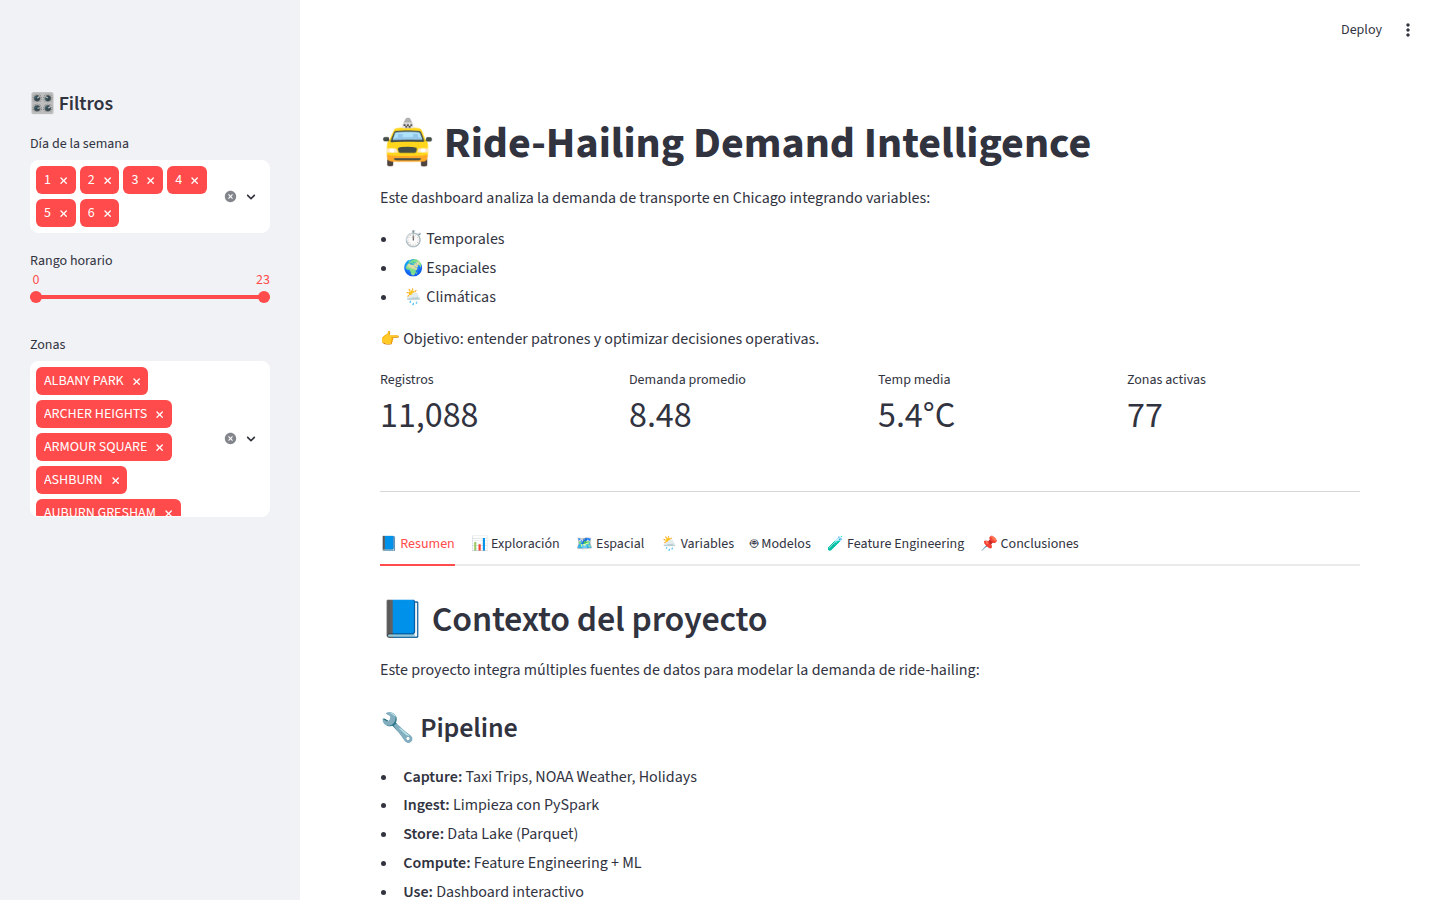
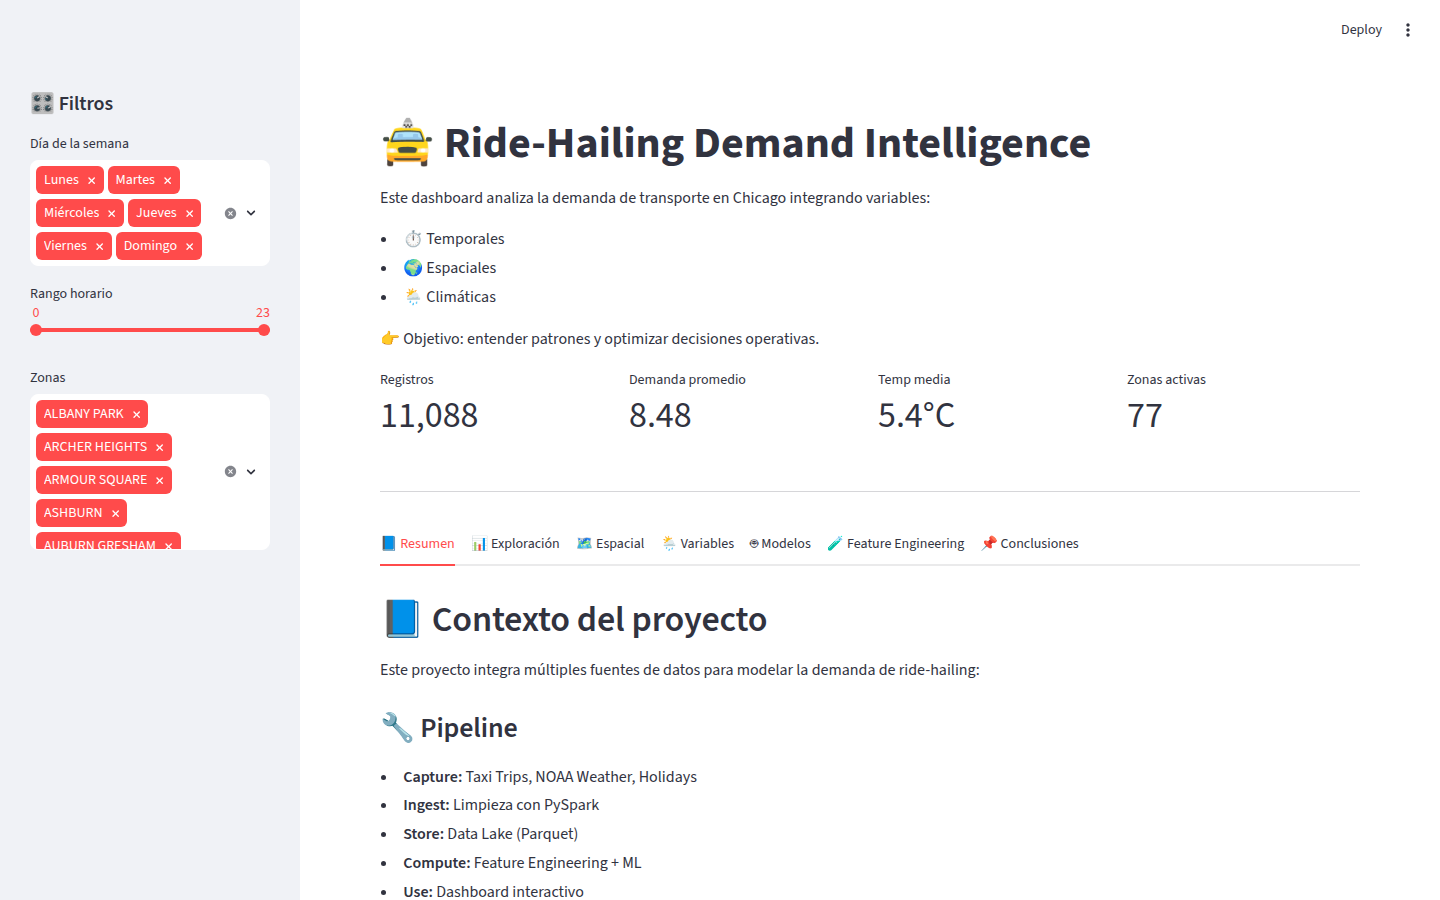
Muestra los días de la semana con nombre (lunes a domingo) y añade demo en vivo
- Las vistas por día del dashboard (filtro lateral, barras por día, heatmap
  y scatter de temperatura) usan nombres de día ordenados de lunes a
  domingo en lugar del código numérico de Spark (1=domingo..7=sábado)
- El eje muestra los 7 días; el sábado, ausente en la muestra pública
  (26-31 de marzo de 2023), aparece sin datos con una nota que lo explica
- El caption del pico de demanda usa el nombre del día (ej. 'Viernes')
- README: enlace a la demo pública en Streamlit Community Cloud, nota de
  cobertura de la muestra y capturas actualizadas

Claude-Session: https://claude.ai/code/session_016BBz5eR14z4jB9gDxQUT8N

Changed region(s): [[0.0, 0.1867, 0.1875, 0.3733], [0.0, 0.4044, 0.125, 0.6222], [0.1562, 0.4667, 0.1875, 0.5289]]

diff --git a/app.py b/app.py
@@ -17,6 +17,20 @@ import streamlit.components.v1 as components
 
 DATA_DIR = Path(__file__).parent / "data"
 
+# day_of_week viene del pipeline Spark con la convención dayofweek():
+# 1=Domingo, 2=Lunes, ..., 7=Sábado. Se muestra siempre con nombres,
+# ordenados de lunes a domingo.
+DAY_NAMES = {
+    1: "Domingo",
+    2: "Lunes",
+    3: "Martes",
+    4: "Miércoles",
+    5: "Jueves",
+    6: "Viernes",
+    7: "Sábado",
+}
+DAY_ORDER = ["Lunes", "Martes", "Miércoles", "Jueves", "Viernes", "Sábado", "Domingo"]
+
 st.set_page_config(
     page_title="Ride-Hailing Demand Intelligence",
     page_icon="🚖",
@@ -29,7 +43,9 @@ st.set_page_config(
 # =========================
 @st.cache_data
 def load_dataset() -> pd.DataFrame:
-    return pd.read_csv(DATA_DIR / "final_dataset.csv")
+    df = pd.read_csv(DATA_DIR / "final_dataset.csv")
+    df["day_name"] = df["day_of_week"].map(DAY_NAMES)
+    return df
 
 
 @st.cache_data
@@ -50,10 +66,11 @@ df = load_dataset()
 # =========================
 st.sidebar.header("🎛️ Filtros")
 
+available_days = [d for d in DAY_ORDER if d in set(df["day_name"])]
 selected_days = st.sidebar.multiselect(
     "Día de la semana",
-    options=sorted(df["day_of_week"].unique()),
-    default=sorted(df["day_of_week"].unique()),
+    options=available_days,
+    default=available_days,
 )
 
 selected_hours = st.sidebar.slider("Rango horario", 0, 23, (0, 23))
@@ -66,7 +83,7 @@ selected_zones = st.sidebar.multiselect(
 )
 
 df_filtered = df[
-    (df["day_of_week"].isin(selected_days))
+    (df["day_name"].isin(selected_days))
     & (df["hour"].between(selected_hours[0], selected_hours[1]))
     & (df["zone_name"].isin(selected_zones))
 ]
@@ -173,34 +190,39 @@ identificando patrones clave de movilidad urbana.
         st.subheader("📅 Demanda por día de la semana")
 
         chart_day = alt.Chart(df_filtered).mark_bar().encode(
-            x=alt.X("day_of_week:O", title="Día"),
+            x=alt.X("day_name:N", title="Día de la semana", sort=DAY_ORDER,
+                    scale=alt.Scale(domain=DAY_ORDER)),
             y=alt.Y("mean(demand):Q", title="Demanda promedio"),
         )
 
         st.altair_chart(chart_day, use_container_width=True)
 
-        st.caption("Permite comparar patrones entre días laborales y fines de semana.")
+        st.caption("""
+Permite comparar patrones entre días laborales y fines de semana.
+La muestra pública cubre de domingo a viernes (26–31 de marzo de 2023), por lo que el sábado aparece sin datos.
+""")
 
     st.markdown("---")
 
     st.subheader("🔥 Mapa de calor: día vs hora")
 
     heatmap_data = df_filtered.pivot_table(
-        index="day_of_week",
+        index="day_name",
         columns="hour",
         values="demand",
         aggfunc="mean",
     )
 
     heatmap_long = heatmap_data.reset_index().melt(
-        id_vars="day_of_week",
+        id_vars="day_name",
         var_name="hour",
         value_name="avg_demand",
     )
 
     chart_heatmap = alt.Chart(heatmap_long).mark_rect().encode(
         x=alt.X("hour:O", title="Hora"),
-        y=alt.Y("day_of_week:O", title="Día"),
+        y=alt.Y("day_name:N", title="Día", sort=DAY_ORDER,
+                scale=alt.Scale(domain=DAY_ORDER)),
         color=alt.Color("avg_demand:Q", scale=alt.Scale(scheme="reds"), title="Demanda media"),
     )
 
@@ -209,7 +231,7 @@ identificando patrones clave de movilidad urbana.
     pico = heatmap_data.stack().idxmax()
     pico_val = heatmap_data.stack().max()
 
-    st.caption(f"Pico de demanda: día {pico[0]} a las {pico[1]}h → {pico_val:.2f} viajes/hora/zona")
+    st.caption(f"Pico de demanda: {pico[0]} a las {pico[1]}h → {pico_val:.2f} viajes/hora/zona")
 
     st.markdown("""
 📌 **Insight:**
@@ -292,8 +314,8 @@ with tab4:
         chart_temp = alt.Chart(df_filtered).mark_circle(size=40).encode(
             x=alt.X("temperature:Q", title="Temperatura (°C)"),
             y=alt.Y("demand:Q", title="Demanda"),
-            color=alt.Color("day_of_week:N", title="Día semana"),
-            tooltip=["temperature", "demand", "day_of_week"],
+            color=alt.Color("day_name:N", title="Día semana", sort=DAY_ORDER),
+            tooltip=["temperature", "demand", "day_name"],
         ).interactive()
 
         st.altair_chart(chart_temp, use_container_width=True)

diff --git a/README.md b/README.md
@@ -8,6 +8,10 @@
 
 Proyecto **end-to-end de Data Science y Big Data**: análisis y predicción espacio-temporal de la demanda de servicios de ride-hailing en Chicago, desde la ingesta distribuida de datos con **Apache Spark** hasta un **dashboard interactivo en Streamlit** con modelos de Machine Learning evaluados con validación temporal.
 
+### 🔴 Demo en vivo
+
+**👉 [ridehailing-demand-dashboard.streamlit.app](https://ridehailing-demand-dashboard-k56fqvuqzpxmyxuijbok7q.streamlit.app/)**
+
 ![Dashboard overview](assets/dashboard_overview.png)
 
 ---
@@ -90,7 +94,9 @@ Métricas sobre la muestra incluida en el repo (test = último día completo, sp
 
 ## 📊 El dashboard
 
-Siete pestañas: resumen del proyecto, exploración temporal, análisis espacial, impacto de variables externas, comparación de modelos, estudio de feature engineering y conclusiones.
+**[Pruébalo en vivo →](https://ridehailing-demand-dashboard-k56fqvuqzpxmyxuijbok7q.streamlit.app/)**
+
+Siete pestañas: resumen del proyecto, exploración temporal, análisis espacial, impacto de variables externas, comparación de modelos, estudio de feature engineering y conclusiones. Todas las vistas temporales muestran los días de la semana con su nombre, ordenados de lunes a domingo.
 
 **Patrones temporales** — heatmap día × hora con picos de commuting claramente visibles:
 
@@ -139,7 +145,7 @@ El notebook del pipeline completo (`notebooks/`) está pensado para **Google Col
 └── LICENSE
 ```
 
-> **Nota sobre los datos:** el repo incluye una muestra compacta (6 días × 24 h × 77 zonas = 11.088 filas) exportada por el pipeline Spark para que el dashboard y el entrenamiento sean reproducibles sin infraestructura. El notebook procesa el periodo completo (~90 días) con validación rolling-window e integra además variables de tráfico (siniestros y congestión).
+> **Nota sobre los datos:** el repo incluye una muestra compacta (6 días × 24 h × 77 zonas = 11.088 filas, del domingo 26 al viernes 31 de marzo de 2023) exportada por el pipeline Spark para que el dashboard y el entrenamiento sean reproducibles sin infraestructura. Al no incluir sábado, esa categoría aparece sin datos en las vistas por día de la semana. El notebook procesa el periodo completo (~90 días, semanas enteras) con validación rolling-window e integra además variables de tráfico (siniestros y congestión).
 
 ---
 